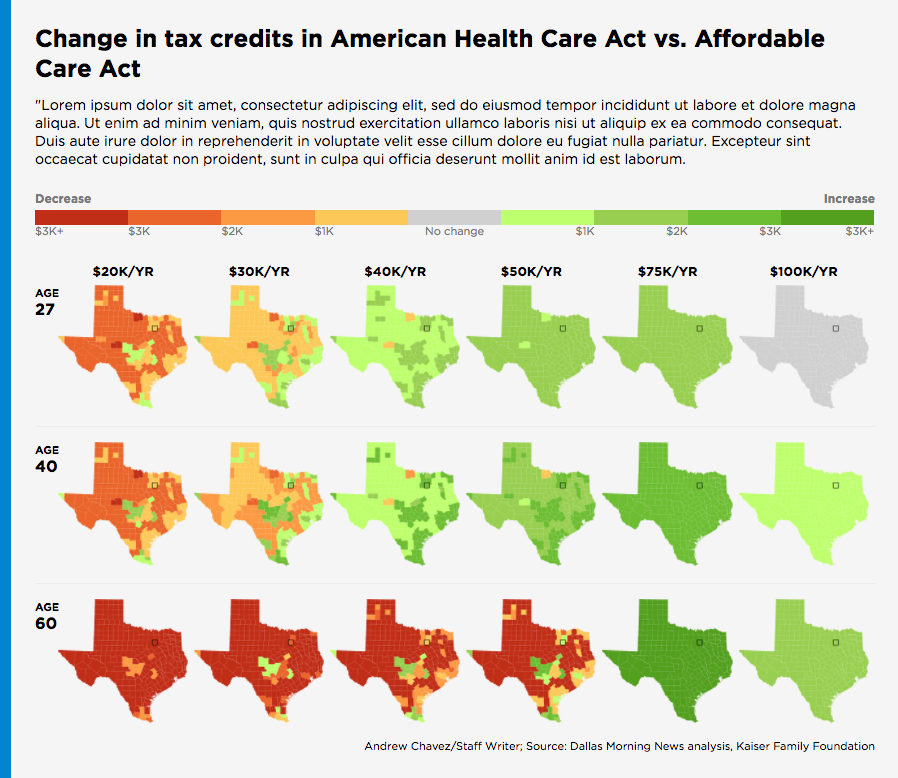
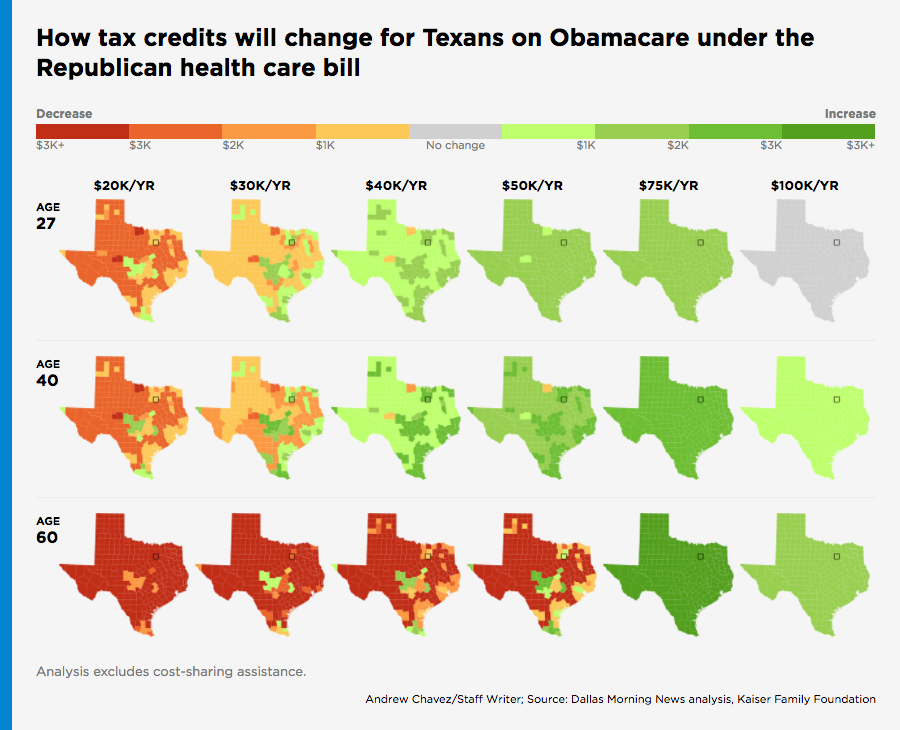
Jon tweaks for hed, chatter

diff --git a/dist/css/styles.css b/dist/css/styles.css
@@ -1,3 +1,3 @@
-/*! normalize.css v5.0.0 | MIT License | github.com/necolas/normalize.css */html{font-family:sans-serif;line-height:1.15;-ms-text-size-adjust:100%;-webkit-text-size-adjust:100%}body{margin:0}article,aside,footer,header,nav,section{display:block}h1{font-size:2em;margin:0.67em 0}figcaption,figure,main{display:block}figure{margin:1em 40px}hr{box-sizing:content-box;height:0;overflow:visible}pre{font-family:monospace, monospace;font-size:1em}a{background-color:transparent;-webkit-text-decoration-skip:objects}a:active,a:hover{outline-width:0}abbr[title]{border-bottom:none;text-decoration:underline;text-decoration:underline dotted}b,strong{font-weight:inherit}b,strong{font-weight:bolder}code,kbd,samp{font-family:monospace, monospace;font-size:1em}dfn{font-style:italic}mark{background-color:#ff0;color:#000}small{font-size:80%}sub,sup{font-size:75%;line-height:0;position:relative;vertical-align:baseline}sub{bottom:-0.25em}sup{top:-0.5em}audio,video{display:inline-block}audio:not([controls]){display:none;height:0}img{border-style:none}svg:not(:root){overflow:hidden}button,input,optgroup,select,textarea{font-family:sans-serif;font-size:100%;line-height:1.15;margin:0}button,input{overflow:visible}button,select{text-transform:none}button,html [type="button"],[type="reset"],[type="submit"]{-webkit-appearance:button}button::-moz-focus-inner,[type="button"]::-moz-focus-inner,[type="reset"]::-moz-focus-inner,[type="submit"]::-moz-focus-inner{border-style:none;padding:0}button:-moz-focusring,[type="button"]:-moz-focusring,[type="reset"]:-moz-focusring,[type="submit"]:-moz-focusring{outline:1px dotted ButtonText}fieldset{border:1px solid #c0c0c0;margin:0 2px;padding:0.35em 0.625em 0.75em}legend{box-sizing:border-box;color:inherit;display:table;max-width:100%;padding:0;white-space:normal}progress{display:inline-block;vertical-align:baseline}textarea{overflow:auto}[type="checkbox"],[type="radio"]{box-sizing:border-box;padding:0}[type="number"]::-webkit-inner-spin-button,[type="number"]::-webkit-outer-spin-button{height:auto}[type="search"]{-webkit-appearance:textfield;outline-offset:-2px}[type="search"]::-webkit-search-cancel-button,[type="search"]::-webkit-search-decoration{-webkit-appearance:none}::-webkit-file-upload-button{-webkit-appearance:button;font:inherit}details,menu{display:block}summary{display:list-item}canvas{display:inline-block}template{display:none}[hidden]{display:none}html{font-size:10px}body:before,body:after{content:" ";display:table}*{box-sizing:border-box}h1,h2,h3,h4{margin-bottom:1.2rem}h5,h6{margin-bottom:.6rem}h1{font-size:6rem;line-height:7.2rem}h2{font-size:4.8rem;line-height:6rem}h3{font-size:3.6rem;line-height:4.2rem}h4{font-size:2.4rem;line-height:3rem}h5{font-size:2rem;line-height:2.4rem}h6{font-size:1.6rem;line-height:1.8rem}.clearfix:after{display:table;content:"";clear:both}#embed-content{font-family:"Gotham A","Gotham B",Arial,sans-serif;max-width:900px;width:100%;margin:0 auto;background-color:#f5f5f5;padding:2.4rem;border-left:12px solid #0185d3;min-height:400px;display:block}.chatter{margin-bottom:2.4rem}.chatter h4{margin-top:0}.chatter p{font-size:1.4rem;line-height:1.8rem;margin-bottom:1.2rem;margin:0 0 1.2rem}@media (max-width: 650px){#six-up{display:none}}#three-up{display:none}@media (max-width: 650px){#three-up{display:block}}.row:not(:last-of-type):not(:first-of-type){margin-bottom:1.2rem;padding-bottom:1.2rem;border-bottom:1px solid #ebebeb}.row__labeled{padding-left:20px;position:relative}.row__header,.row__label{margin:0 0;text-align:center;font-size:1.3rem;line-height:1.5rem;margin-bottom:0;font-weight:bold;text-transform:uppercase}.row__label{position:absolute;top:5px;left:0;font-size:1.6rem;line-height:2.2rem;margin-bottom:0;text-align:left;font-weight:bold}@media (max-width: 450px){.row__label{font-size:1.5rem;line-height:1.8rem;margin-bottom:0}}.label--small{font-size:1.1rem;line-height:1.2rem;margin-bottom:0;display:block;text-transform:uppercase}.block{float:left;padding:3px}.block img{width:100%;height:auto}.block--three-up{width:33%}.block--six-up{width:16.6%}.source{font-size:1.1rem;line-height:1.5rem;margin-bottom:0;text-align:right}.key__title{font-size:1.2rem;line-height:1.5rem;margin-bottom:0;text-align:center;font-weight:bold}.key__list{width:100%;padding:0 0;margin:0.4rem 0 2.4rem 0}.key__axis{width:100%;padding:0;margin:0;font-size:1.2rem;color:#797979;font-weight:bold}.key__axis>li{display:inline-block;float:left;width:50%}.key__label{width:11.1%;display:inline-block;margin:0 0;padding:0 0;float:left;text-align:center;font-size:1.1rem;line-height:1.2rem;color:#797979}.key__label:nth-child(1){border-top:15px solid #c12e17}.key__label:nth-child(2){border-top:15px solid #ea652b}.key__label:nth-child(3){border-top:15px solid #fc9943}.key__label:nth-child(4){border-top:15px solid #fcc857}.key__label:nth-child(5){border-top:15px solid #d0d0d0}.key__label:nth-child(6){border-top:15px solid #beff6d}.key__label:nth-child(7){border-top:15px solid #99cf51}.key__label:nth-child(8){border-top:15px solid #6ebe34}.key__label:nth-child(9){border-top:15px solid #539f1e}.key--right{text-align:right}.key--left{text-align:left}
+/*! normalize.css v5.0.0 | MIT License | github.com/necolas/normalize.css */html{font-family:sans-serif;line-height:1.15;-ms-text-size-adjust:100%;-webkit-text-size-adjust:100%}body{margin:0}article,aside,footer,header,nav,section{display:block}h1{font-size:2em;margin:0.67em 0}figcaption,figure,main{display:block}figure{margin:1em 40px}hr{box-sizing:content-box;height:0;overflow:visible}pre{font-family:monospace, monospace;font-size:1em}a{background-color:transparent;-webkit-text-decoration-skip:objects}a:active,a:hover{outline-width:0}abbr[title]{border-bottom:none;text-decoration:underline;text-decoration:underline dotted}b,strong{font-weight:inherit}b,strong{font-weight:bolder}code,kbd,samp{font-family:monospace, monospace;font-size:1em}dfn{font-style:italic}mark{background-color:#ff0;color:#000}small{font-size:80%}sub,sup{font-size:75%;line-height:0;position:relative;vertical-align:baseline}sub{bottom:-0.25em}sup{top:-0.5em}audio,video{display:inline-block}audio:not([controls]){display:none;height:0}img{border-style:none}svg:not(:root){overflow:hidden}button,input,optgroup,select,textarea{font-family:sans-serif;font-size:100%;line-height:1.15;margin:0}button,input{overflow:visible}button,select{text-transform:none}button,html [type="button"],[type="reset"],[type="submit"]{-webkit-appearance:button}button::-moz-focus-inner,[type="button"]::-moz-focus-inner,[type="reset"]::-moz-focus-inner,[type="submit"]::-moz-focus-inner{border-style:none;padding:0}button:-moz-focusring,[type="button"]:-moz-focusring,[type="reset"]:-moz-focusring,[type="submit"]:-moz-focusring{outline:1px dotted ButtonText}fieldset{border:1px solid #c0c0c0;margin:0 2px;padding:0.35em 0.625em 0.75em}legend{box-sizing:border-box;color:inherit;display:table;max-width:100%;padding:0;white-space:normal}progress{display:inline-block;vertical-align:baseline}textarea{overflow:auto}[type="checkbox"],[type="radio"]{box-sizing:border-box;padding:0}[type="number"]::-webkit-inner-spin-button,[type="number"]::-webkit-outer-spin-button{height:auto}[type="search"]{-webkit-appearance:textfield;outline-offset:-2px}[type="search"]::-webkit-search-cancel-button,[type="search"]::-webkit-search-decoration{-webkit-appearance:none}::-webkit-file-upload-button{-webkit-appearance:button;font:inherit}details,menu{display:block}summary{display:list-item}canvas{display:inline-block}template{display:none}[hidden]{display:none}html{font-size:10px}body:before,body:after{content:" ";display:table}*{box-sizing:border-box}h1,h2,h3,h4{margin-bottom:1.2rem}h5,h6{margin-bottom:.6rem}h1{font-size:6rem;line-height:7.2rem}h2{font-size:4.8rem;line-height:6rem}h3{font-size:3.6rem;line-height:4.2rem}h4{font-size:2.4rem;line-height:3rem}h5{font-size:2rem;line-height:2.4rem}h6{font-size:1.6rem;line-height:1.8rem}.clearfix:after{display:table;content:"";clear:both}#embed-content{font-family:"Gotham A","Gotham B",Arial,sans-serif;max-width:900px;width:100%;margin:0 auto;background-color:#f5f5f5;padding:2.4rem;border-left:12px solid #0185d3;min-height:400px;display:block}.chatter{margin-bottom:2.4rem}.chatter h4{margin-top:0}.chatter p{font-size:1.4rem;line-height:1.8rem;margin-bottom:1.2rem;margin:0 0 1.2rem}@media (max-width: 650px){#six-up{display:none}}#three-up{display:none}@media (max-width: 650px){#three-up{display:block}}.row:not(:last-of-type):not(:first-of-type){margin-bottom:1.2rem;padding-bottom:1.2rem;border-bottom:1px solid #ebebeb}.row__labeled{padding-left:20px;position:relative}.row__header,.row__label{margin:0 0;text-align:center;font-size:1.3rem;line-height:1.5rem;margin-bottom:0;font-weight:bold;text-transform:uppercase}.row__label{position:absolute;top:5px;left:0;font-size:1.6rem;line-height:2.2rem;margin-bottom:0;text-align:left;font-weight:bold}@media (max-width: 450px){.row__label{font-size:1.5rem;line-height:1.8rem;margin-bottom:0}}.label--small{font-size:1.1rem;line-height:1.2rem;margin-bottom:0;display:block;text-transform:uppercase}.block{float:left;padding:3px}.block img{width:100%;height:auto}.block--three-up{width:33%}.block--six-up{width:16.6%}.source{font-size:1.1rem;line-height:1.5rem;margin-bottom:0;text-align:right}.key__title{font-size:1.2rem;line-height:1.5rem;margin-bottom:0;text-align:center;font-weight:bold}.key__list{width:100%;padding:0 0;margin:0.4rem 0 2.4rem 0}.key__axis{width:100%;padding:0;margin:0;font-size:1.2rem;color:#797979;font-weight:bold}.key__axis>li{display:inline-block;float:left;width:50%}.key__label{width:11.1%;display:inline-block;margin:0 0;padding:0 0;float:left;text-align:center;font-size:1.1rem;line-height:1.2rem;color:#797979}.key__label:nth-child(1){border-top:15px solid #c12e17}.key__label:nth-child(2){border-top:15px solid #ea652b}.key__label:nth-child(3){border-top:15px solid #fc9943}.key__label:nth-child(4){border-top:15px solid #fcc857}.key__label:nth-child(5){border-top:15px solid #d0d0d0}.key__label:nth-child(6){border-top:15px solid #beff6d}.key__label:nth-child(7){border-top:15px solid #99cf51}.key__label:nth-child(8){border-top:15px solid #6ebe34}.key__label:nth-child(9){border-top:15px solid #539f1e}.key--right{text-align:right}.key--left{text-align:left}.footnote{margin-top:1.8em;font-size:1.3em;color:#797979}
 
 /*# sourceMappingURL=styles.css.map */

diff --git a/dist/index.html b/dist/index.html
@@ -13,9 +13,7 @@
 
       <div id="aca-body">
         <div class="chatter">
-          <h4 class="slide__title">How the Republican health care bill would change tax credits from Obamacare</h4>
-          <p>Both the Affordable Care Act and the GOP-proposed American Health Care Act offer tax credits to help pay for health care. The ACA offers credits based on age, income and cost of insurance, while the GOP plan would give flat tax credits based on age, phasing out for people who earn $75,000 or greater. Under the GOP proposal, middle-class earners would see greater assistance, while many older and lower-income earners will see their federal aid decrease.</p>
-          <p>Using data from the Kaiser Family Foundation, these maps show how the existing ACA tax credits would change for Texans if Congress adopts the GOP’s replacement plan. Kaiser didn’t include cost-sharing assistance in the analysis.</p>
+          <h4 class="slide__title">How tax credits will change for Texans on Obamacare under the Republican health care bill</h4>
         </div>
 
         <div class="key">
@@ -218,6 +216,8 @@
             </div>
           </div>
         </div>
+
+        <p class="footnote">Analysis excludes cost-sharing assistance.</p>
 
         <p class="source">Andrew Chavez/Staff Writer; Source: Dallas Morning News analysis, Kaiser Family Foundation</p>
       </div>

diff --git a/src/sass/styles.scss b/src/sass/styles.scss
@@ -233,4 +233,10 @@ h6 {
 }
 
 
+.footnote {
+  margin-top: 1.8em;
+  font-size: 1.3em;
+  color: $black121;
+}
+
 // Your styles go here

diff --git a/README.md b/README.md
@@ -35,7 +35,6 @@ The below embed code can be pasted into a Serif "code block":
 
 ```html
 <div id="embed-aca-maps"></div>
-
 <script src="//pym.nprapps.org/pym.v1.min.js"></script>
 <script>new pym.Parent('embed-aca-maps', '//interactives.dallasnews.com/embeds/2017/aca-maps/', {})</script>
 ```
